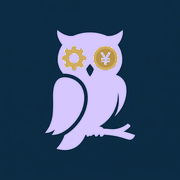
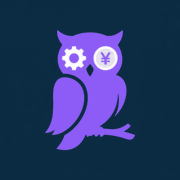
フクリ：アイコンを紫のフクロウ＋白い目に
Claude-Session: https://claude.ai/code/session_018AqJEQpyqVYXog4wvTo1vf

Changed region(s): [[0.25, 0.1667, 0.75, 0.8333]]

diff --git a/fukuri/index.html b/fukuri/index.html
@@ -11,9 +11,9 @@
 <meta name="apple-mobile-web-app-status-bar-style" content="black">
 <meta name="apple-mobile-web-app-title" content="フクリ">
 <meta name="theme-color" content="#070908">
-<link rel="apple-touch-icon" href="apple-touch-icon.png?v=3">
-<link rel="apple-touch-icon" media="(prefers-color-scheme: dark)" href="apple-touch-icon-dark.png?v=3">
-<link rel="icon" href="icon-192.png?v=3">
+<link rel="apple-touch-icon" href="apple-touch-icon.png?v=4">
+<link rel="apple-touch-icon" media="(prefers-color-scheme: dark)" href="apple-touch-icon-dark.png?v=4">
+<link rel="icon" href="icon-192.png?v=4">
 <link rel="manifest" href="manifest.webmanifest?v=2">
 <style>
 :root{
